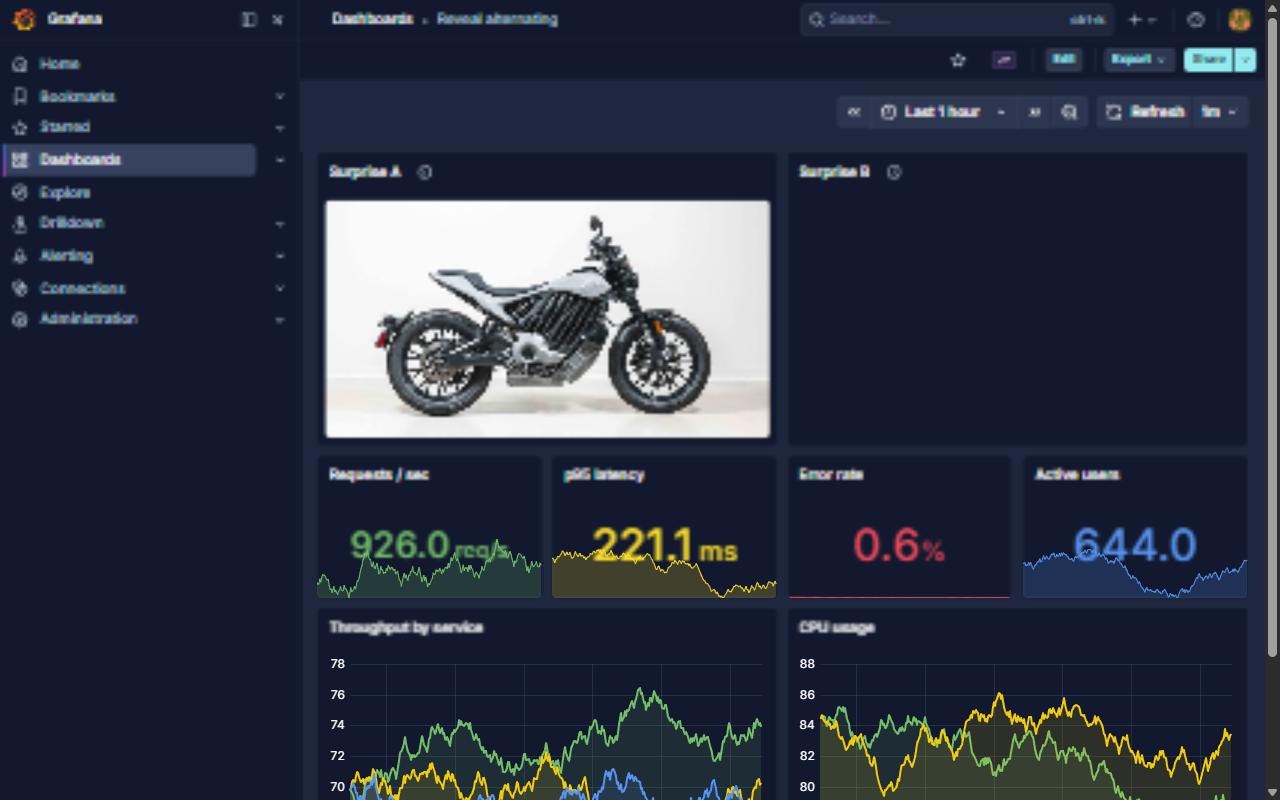
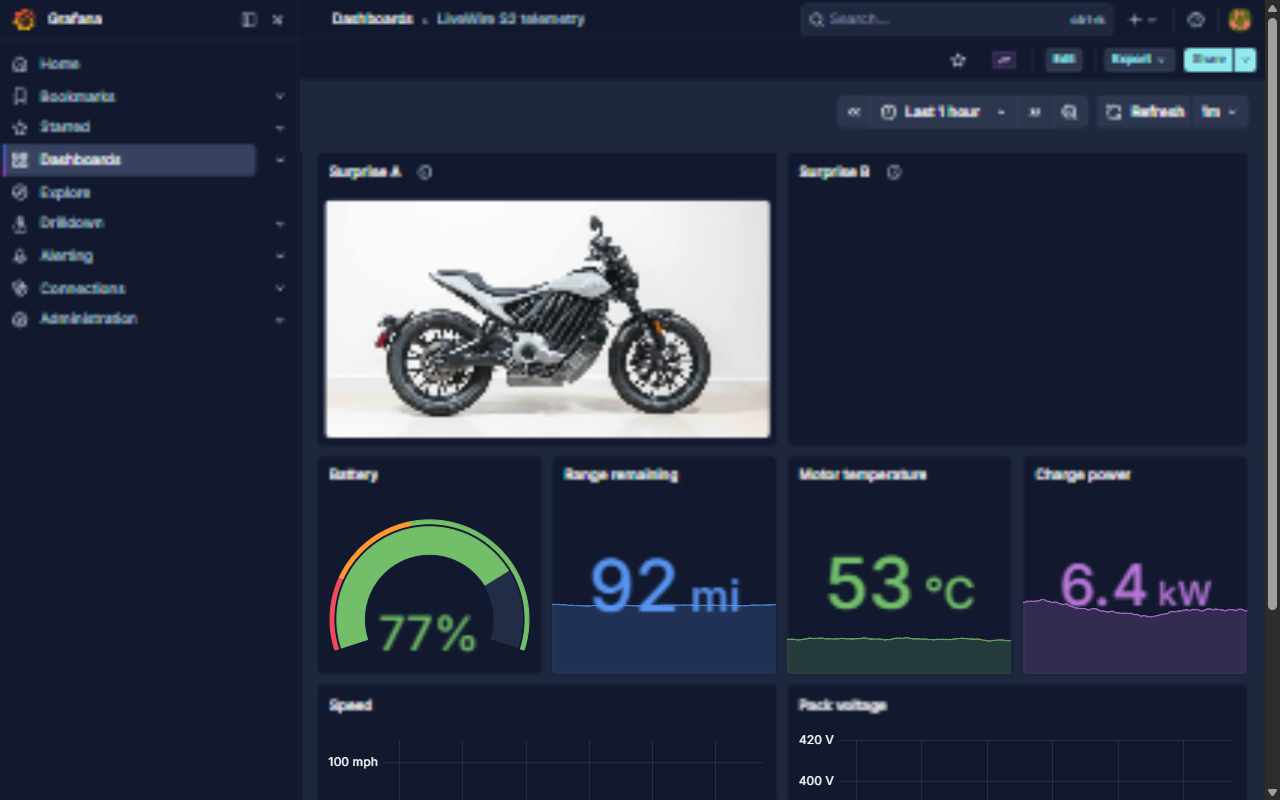
Theme the alternating demo as LiveWire S2 telemetry
Replace the generic request/latency filler with battery gauge, range, motor
temperature, charge power, speed and pack voltage panels so the dashboard
matches the motorcycle being revealed. Screenshot retaken.

diff --git a/README.md b/README.md
@@ -7,7 +7,7 @@ Progressively reveals an image or GIF as a date approaches, or on a repeating sc
 <p>
   <img src="imgs/reveal-dashboard.png" alt="Four reveal modes on a dashboard" width="30%">
   <img src="imgs/panel-editor.png" alt="Panel editor with live preview" width="30%">
-  <img src="imgs/alternating-dashboard.png" alt="Two panels alternating every minute" width="30%">
+  <img src="imgs/alternating-dashboard.png" alt="LiveWire S2 telemetry with alternating surprise panels" width="30%">
 </p>
 
 ## Quick Start (Provides Grafana and Reveal via Docker.)
@@ -53,7 +53,7 @@ docker compose up
 
 **Preview** (editor only): a slider that scrubs the reveal from 0 to 100% without affecting viewers.
 
-Every seeded order (tiles, doors, scratches, random cycles) derives from the reveal date, so all viewers see the same state. Two demo dashboards ship with the stack (`Reveal demo` and `Reveal alternating`).
+Every seeded order (tiles, doors, scratches, random cycles) derives from the reveal date, so all viewers see the same state. Two demo dashboards ship with the stack (`Reveal demo` and `LiveWire S2 telemetry`).
 
 ## Usage
 

diff --git a/docs/TECHNICAL.md b/docs/TECHNICAL.md
@@ -118,8 +118,8 @@ start-date alignment, an `offset`, and a seeded `chance` per cycle. Two panels w
 ### Demo dashboards
 
 - **Reveal demo** (`/d/reveal-demo`): the four date-based modes plus even/odd/random schedule panels.
-- **Reveal alternating** (`/d/reveal-alternating`): two Reveal panels across the top that alternate
-  every minute above ordinary metric panels. Surprise A uses offset `0`, Surprise B offset `1m`.
+- **LiveWire S2 telemetry** (`/d/reveal-alternating`): two Reveal panels across the top that alternate
+  every minute above an electric-motorcycle telemetry board. Surprise A uses offset `0`, Surprise B offset `1m`.
 
 ## Secrecy caveat - please read
 
